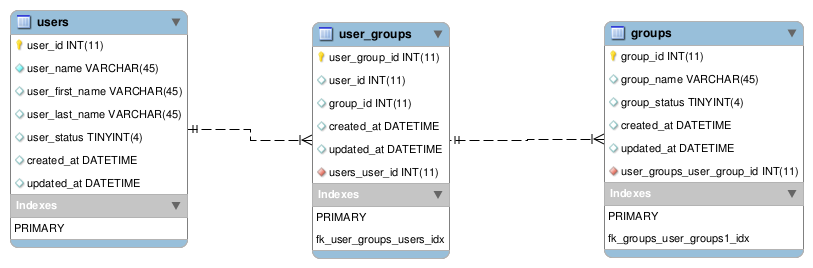
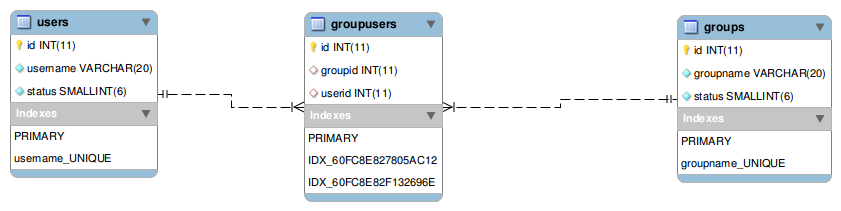
updated code and docs

Changed region(s): [[0.0, 0.0569, 1.0, 0.9668], [0.0, 0.0284, 0.246, 0.3697]]

diff --git a/src/Application/Service/GroupService.php b/src/Application/Service/GroupService.php
@@ -40,7 +40,7 @@ class GroupService
             $group = $this->groupRepository->findById($groupId);
 
         } catch(\Doctrine\ORM\ORMException $e) {
-            return $e->getMessage();
+            throw new EntityNotFoundException('Group with id '.$groupId.' does not exist!');
         }
 
         if (!$group) {
@@ -56,11 +56,12 @@ class GroupService
      */
     public function getGroupByName(string $groupname): Group
     {
+        
         try {
             $group = $this->groupRepository->findByName($groupname);
 
         } catch(\Doctrine\ORM\ORMException $e) {
-            return $e->getMessage();
+            throw new EntityNotFoundException('Group with name '.$groupname.' does not exist!');
         }
 
         if (!$group) {
@@ -80,7 +81,7 @@ class GroupService
             $group = $this->groupRepository->findById($groupId);
 
         } catch(\Doctrine\ORM\ORMException $e) {
-            return $e->getMessage();
+            throw new EntityNotFoundException('Group with id '.$groupId.' does not exist!');
         }
 
         if (!$group) {
@@ -92,7 +93,7 @@ class GroupService
             $groupuser = $this->groupRepository->getGroupuser($groupId);
 
         } catch(\Doctrine\ORM\ORMException $e) {
-            return $e->getMessage();
+            throw new EntityNotFoundException('Group with id '.$groupId.' does not exist!');
         }
 
         if (!empty($groupuser)) {
@@ -103,7 +104,7 @@ class GroupService
             $result = $this->groupRepository->delete($group);
 
         } catch(\Doctrine\ORM\ORMException $e) {
-            return $e->getMessage();
+            throw new EntityNotFoundException('Group with id '.$groupId.' does not exist!');
         }
 
         if (!$result) {
@@ -125,7 +126,7 @@ class GroupService
             $result = $this->groupRepository->findByName($group->getGroupname());
 
         } catch(\Doctrine\ORM\ORMException $e) {
-            return $e->getMessage();
+            throw new EntityNotFoundException(' not saved!');
         }
         
         if (empty($result)) {

diff --git a/src/Usermanagement/Repository/UserRepository.php b/src/Usermanagement/Repository/UserRepository.php
@@ -47,12 +47,7 @@ final class UserRepository implements UserRepositoryInterface
      */
     public function findById(int $userId): ? User
     {
-        try{
-            return $this->objectRepository->find($userId);
-
-        } catch(\Doctrine\ORM\ORMException $e) {
-            return $e->getMessage();
-        }
+        return $this->objectRepository->find($userId);
 
     }
 
@@ -70,7 +65,7 @@ final class UserRepository implements UserRepositoryInterface
                 )->getQuery()
                 ->getResult(AbstractQuery::HYDRATE_ARRAY);
         }  catch(\Doctrine\ORM\ORMException $e) {
-            return $e->getMessage();
+            return array();
         }
 
         return $result;
@@ -86,7 +81,7 @@ final class UserRepository implements UserRepositoryInterface
             $this->entityManager->persist($user);
             $this->entityManager->flush();
         }  catch(\Doctrine\ORM\ORMException $e) {
-            return $e->getMessage();
+            return false;
         }
 
         return true;
@@ -102,7 +97,7 @@ final class UserRepository implements UserRepositoryInterface
             $this->entityManager->remove($user);
             $this->entityManager->flush();
         }  catch(\Doctrine\ORM\ORMException $e) {
-            return $e->getMessage();
+            return false;
         }
 
         return true;
@@ -122,7 +117,7 @@ final class UserRepository implements UserRepositoryInterface
                 ->getQuery()
                 ->getResult(AbstractQuery::HYDRATE_ARRAY);
         } catch(\Doctrine\ORM\ORMException $e) {
-            return $e->getMessage();
+            return array();
         }
 
         return $result;
@@ -140,7 +135,7 @@ final class UserRepository implements UserRepositoryInterface
                 ->getQuery()
                 ->getResult(AbstractQuery::HYDRATE_ARRAY);
         } catch(\Doctrine\ORM\ORMException $e) {
-            return $e->getMessage();
+            return false;
         }
 
         if($result){

diff --git a/src/Application/Service/GroupuserService.php b/src/Application/Service/GroupuserService.php
@@ -49,7 +49,7 @@ class GroupuserService
             $groupuser = $this->groupuserRepository->findByGroupId($groupId);
 
         } catch(\Doctrine\ORM\ORMException $e) {
-            return $e->getMessage();
+            throw new EntityNotFoundException('Groupuser with groupid '.$groupId.' does not exist!');
         }
 
         if (!$groupuser) {
@@ -69,7 +69,7 @@ class GroupuserService
             $groupuser = $this->groupuserRepository->findByUserId($userId);
 
         } catch(\Doctrine\ORM\ORMException $e) {
-            return $e->getMessage();
+            throw new EntityNotFoundException('Groupuser with userid '.$userId.' does not exist!');
         }
 
         if (!$groupuser) {
@@ -90,7 +90,7 @@ class GroupuserService
             $groupuser = $this->groupuserRepository->findByGroupId($groupId);
 
         } catch(\Doctrine\ORM\ORMException $e) {
-            return $e->getMessage();
+            throw new EntityNotFoundException('Groupuser not deleted!');
         }
 
         if (empty($groupuser)) {
@@ -113,7 +113,7 @@ class GroupuserService
             $result = $this->groupuserRepository->delete($userId);
 
         } catch(\Doctrine\ORM\ORMException $e) {
-            return $e->getMessage();
+            throw new EntityNotFoundException('Groupuser not deleted!');
         }
 
         if(!$result) {
@@ -135,7 +135,7 @@ class GroupuserService
         // checking if group and user exist
         $user = $this->userRepository->findById($userId);
         $group = $this->groupRepository->findById($groupId);
-        
+
         if($group != NULL && $user != NULL) {
             $result = $this->groupuserRepository->duplicateCheck($userId, $groupId);
 

diff --git a/src/Usermanagement/Repository/GroupuserRepository.php b/src/Usermanagement/Repository/GroupuserRepository.php
@@ -55,7 +55,7 @@ final class GroupuserRepository implements GroupuserRepositoryInterface
                 ->getResult(AbstractQuery::HYDRATE_ARRAY);
 
         } catch(\Doctrine\ORM\ORMException $e) {
-            return $e->getMessage();
+            return array();
         }
 
         return $result;
@@ -75,7 +75,7 @@ final class GroupuserRepository implements GroupuserRepositoryInterface
                 ->getResult(AbstractQuery::HYDRATE_ARRAY);
 
         } catch(\Doctrine\ORM\ORMException $e) {
-            return $e->getMessage();
+            return array();
         }
 
         return $result;
@@ -89,7 +89,7 @@ final class GroupuserRepository implements GroupuserRepositoryInterface
     public function duplicateCheck(int $userId, int $groupId): array
     {
 
-        $result = $this->queryBuilder->select('g.id, g.groupid, g.userid')
+        $result = $this->queryBuilder->select('g')
             ->from(Groupuser::class, 'g')
             ->where("g.userid = :user")->setParameter("user", $userId)
             ->andWhere("g.groupid = :group")->setParameter("group", $groupId)
@@ -110,7 +110,7 @@ final class GroupuserRepository implements GroupuserRepositoryInterface
             $this->entityManager->flush();
 
         } catch(\Doctrine\ORM\ORMException $e) {
-            return $e->getMessage();
+            return false;
         }
 
         return true;
@@ -129,7 +129,7 @@ final class GroupuserRepository implements GroupuserRepositoryInterface
                 ->getResult(AbstractQuery::HYDRATE_ARRAY);
 
         } catch(\Doctrine\ORM\ORMException $e) {
-            return $e->getMessage();
+            return false;
         }
 
         if($result){

diff --git a/src/Usermanagement/Repository/GroupRepository.php b/src/Usermanagement/Repository/GroupRepository.php
@@ -46,12 +46,8 @@ final class GroupRepository implements GroupRepositoryInterface
      */
     public function findById(int $groupId): ? Group
     {
-        try {
-            return $this->objectRepository->find($groupId);
+       return $this->objectRepository->find($groupId);
 
-        } catch(\Doctrine\ORM\ORMException $e) {
-            return $e->getMessage();
-        }
     }
 
     /**
@@ -69,7 +65,7 @@ final class GroupRepository implements GroupRepositoryInterface
                 ->getResult(AbstractQuery::HYDRATE_ARRAY);
 
         } catch(\Doctrine\ORM\ORMException $e) {
-            return $e->getMessage();
+            return array();
         }
         
         return $result;
@@ -86,7 +82,7 @@ final class GroupRepository implements GroupRepositoryInterface
             $this->entityManager->flush();
 
         } catch(\Doctrine\ORM\ORMException $e) {
-            return $e->getMessage();
+            return false;
         }
 
         return true;
@@ -103,7 +99,7 @@ final class GroupRepository implements GroupRepositoryInterface
             $this->entityManager->flush();
 
         } catch(\Doctrine\ORM\ORMException $e) {
-            return $e->getMessage();
+            return false;
         }
 
         return true;
@@ -124,7 +120,7 @@ final class GroupRepository implements GroupRepositoryInterface
                 ->getResult(AbstractQuery::HYDRATE_ARRAY);
 
         } catch(\Doctrine\ORM\ORMException $e) {
-            return $e->getMessage();
+            return array();
         }
 
         return $result;

diff --git a/src/Domain/Model/Group/Group.php b/src/Domain/Model/Group/Group.php
@@ -17,6 +17,7 @@ class Group {
      * @ORM\Column(type="integer")
      * @ORM\Id
      * @ORM\GeneratedValue(strategy="AUTO")
+     *
      */
     private $id;
     /**
@@ -30,11 +31,6 @@ class Group {
      * @Assert\NotBlank()
      */
     private $status;
-
-    /**
-     * @ORM\OneToMany(targetEntity="App\Domain\Model\Groupuser\Groupuser", mappedBy="groups")
-     */
-    private $groupuser;
 
     /**
      * Group constructor.
@@ -100,35 +96,6 @@ class Group {
         $this->status = $status;
     }
 
-    /**
-     * @return Collection
-     */
-    public function getGroupuser(): Collection
-    {
-        return $this->groupuser;
-    }
-
-//    public function addGroupuser(Groupuser $groupuser): self
-//    {
-//        if (!$this->groupuser->contains($groupuser)) {
-//            $this->groupuser[] = $groupuser;
-//            $groupuser->setGroups($this);
-//        }
-//
-//        return $this;
-//    }
-//
-//    public function removeGroupuser(Groupuser $groupuser): self
-//    {
-//        if ($this->groupuser->contains($groupuser)) {
-//            $this->groupuser->removeElement($groupuser);
-//            // set the owning side to null (unless already changed)
-//            if ($groupuser->getGroups() === $this) {
-//                $groupuser->setGroups(null);
-//            }
-//        }
-//
-//        return $this;
-//    }
+    
 
 }

diff --git a/src/Domain/Model/User/User.php b/src/Domain/Model/User/User.php
@@ -19,6 +19,7 @@ class User {
      * @ORM\Column(type="integer")
      * @ORM\Id
      * @ORM\GeneratedValue(strategy="AUTO")
+     *
      */
     private $id;
     /**
@@ -33,18 +34,7 @@ class User {
      */
     private $status;
 
-    /**
-     * @ORM\OneToMany(targetEntity="App\Domain\Model\Groupuser\Groupuser", mappedBy="groups")
-     */
-    private $groupuser;
 
-    /**
-     * User constructor.
-     */
-    public function __construct()
-    {
-        $this->groupuser = new ArrayCollection();
-    }
 
     /**
      * @return int
@@ -101,10 +91,6 @@ class User {
     {
         $this->status = $status;
     }
-
-    /**
-     * @return Collection
-     */
 
 
 }

diff --git a/src/Domain/Model/Groupuser/Groupuser.php b/src/Domain/Model/Groupuser/Groupuser.php
@@ -21,14 +21,16 @@ class Groupuser {
     /**
      * @var int
      *
-     * @ORM\Column(name="groupid", type="integer", nullable=false)
+     * @ORM\ManyToOne(targetEntity="App\Domain\Model\Group\Group", inversedBy="groupusers")
+     * @ORM\JoinColumn(name="groupid", referencedColumnName="id")
      */
     private $groupid;
 
     /**
      * @var int
      *
-     * @ORM\Column(name="userid", type="integer", nullable=false)
+     * @ORM\ManyToOne(targetEntity="App\Domain\Model\User\User", inversedBy="groupusers")
+     * @ORM\JoinColumn(name="userid", referencedColumnName="id")
      */
     private $userid;
 

diff --git a/tests/Usermanagement/Controller/Rest/GroupControllerTest.php b/tests/Usermanagement/Controller/Rest/GroupControllerTest.php
@@ -68,7 +68,7 @@ class GroupControllerTest extends PHPUnit\Framework\TestCase
         $result = $this->groupMock
             ->expects($this->any())
             ->method('getGroupByName')
-            ->with($this->groupName)
+            ->with('banana')
             ->willReturn(Group::class);
         $this->assertInternalType('object', $result);
     }

diff --git a/src/Application/Service/UserService.php b/src/Application/Service/UserService.php
@@ -38,7 +38,7 @@ class UserService
         try {
             $user = $this->userRepository->findById($userId);
         } catch(\Doctrine\ORM\ORMException $e) {
-            return $e->getMessage();
+            throw new EntityNotFoundException('User with id '.$userId.' does not exist!');
         }
 
         if (!$user) {
